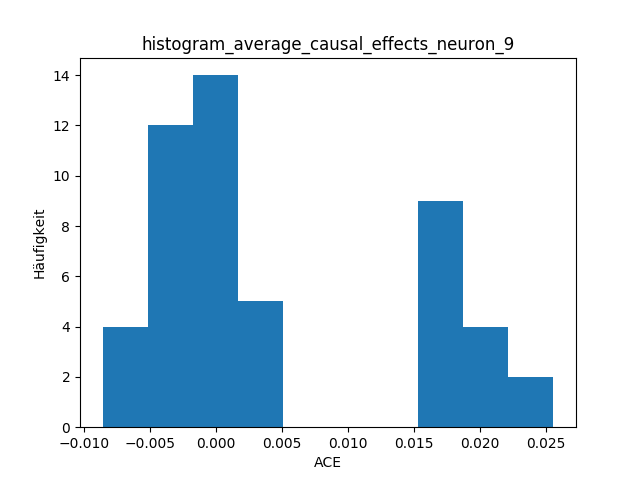
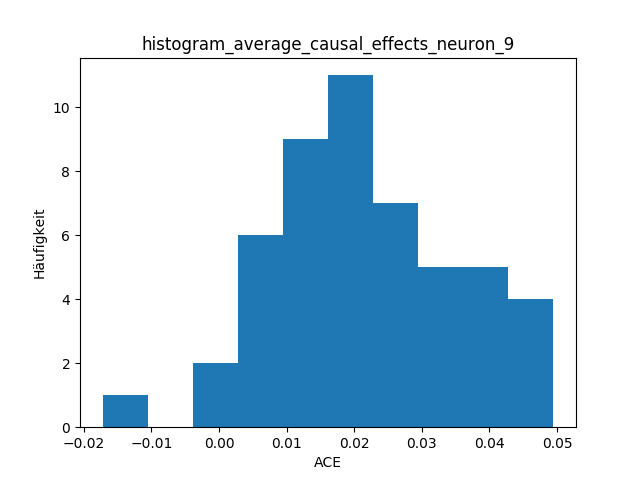
changed sigmoid

diff --git a/Project/causal.py b/Project/causal.py
@@ -7,10 +7,11 @@ import copy
 class causality(object):
     """docstring for causality."""
 
-    def __init__(self, neural_network,new_inputs):
+    def __init__(self, neural_network,new_inputs,input_samples_ACE):
         super(causality, self).__init__()
         self.neural_network = neural_network
         self.new_inputs=new_inputs
+        self.input_samples_ACE=input_samples_ACE
 
 
     def slicing_NN(self,input_sample):
@@ -19,7 +20,8 @@ class causality(object):
         #print(input_sample.shape)
         x_train_t =torch.from_numpy(input_sample).clone()
         for counter,layer in enumerate(self.neural_network.net):
-            if counter%2==0 and counter<len(self.neural_network.net):
+            if counter%2==0 and counter<len(self.neural_network.net):#if counter==6:#
+
                 #print(counter)
                 self.neural_network.net.eval()
                 new_nn=self.neural_network.net[counter:len(self.neural_network.net)]
@@ -32,13 +34,17 @@ class causality(object):
                 #shapes are wrong############################
                 #print(self.new_inputs.detach().numpy().shape)
 
-                input_samples_ACE=self.ACE(covariance,mean,new_nn)
                 print("nn generating input")
                 print(self.neural_network.net[0:counter])
                 print("sliced NN")
                 print(new_nn)
 
-                self.plotting_ACE(input_samples_ACE)
+                self.ACE(covariance,mean,new_nn)
+
+
+                self.evaluating_ACE()
+                #if counter==0:
+                #    self.plotting_ACE()
                 #print("self.new_inputs shape")
                 #print(self.new_inputs.detach().numpy().shape)
                 #print(mean)
@@ -46,7 +52,7 @@ class causality(object):
 
     def ACE(self,covariance,mean,neural_net):
         torch.set_default_dtype(torch.float64)
-        input_samples_ACE=[]
+        self.input_samples_ACE=[]
 
         for input_sample in self.new_inputs:
             input_sample=input_sample.detach().numpy()
@@ -63,15 +69,21 @@ class causality(object):
 
                 output=neural_net(input_tensor) # torch.from_numpy(mean_vector)
 
-                output = torch.nn.functional.sigmoid(output)
+                #output = torch.nn.functional.sigmoid(output)
                 #output = torch.nn.functional.softmax(output)
 
                 val = output.data.view(1).cpu().numpy()[0]
                 #print("first Loop") #first Loop 0
                 #print(indx)
-                first_grads = torch.autograd.grad(output, input_tensor, retain_graph=True, create_graph=True, only_inputs=True, allow_unused=False)
+                first_grads = torch.autograd.grad(output, input_tensor, retain_graph=True, create_graph=True, only_inputs=True, allow_unused=True)#allow_unused=False
+                #first_grads=np.array(first_grads, dtype=float)
+                #print(first_grads)
+                #first_grads[0].data=torch.nan_to_num(first_grads[0].data)
+                #print(first_grads)
+                #first_grads=torch.tensor(first_grads)
                 first_grad_shape = first_grads[0].data.size()
                 lower_order_grads = first_grads
+
                 for dim in range(len(mean)):
                     if dim==indx:
                         continue #only executing loop if not same neuron
@@ -83,8 +95,14 @@ class causality(object):
                     #print(input_tensor)
                     #print("second Loop") #second Loop 1
                     #print(dim)
-                    higher_order_grads = torch.autograd.grad(lower_order_grads,input_tensor, grad_outputs=grad_mask, retain_graph=True, create_graph=True, only_inputs=True, allow_unused=False)#allow_unused=False
+                    higher_order_grads = torch.autograd.grad(lower_order_grads,input_tensor, grad_outputs=grad_mask, retain_graph=True, create_graph=True, only_inputs=True, allow_unused=True)#allow_unused=False
+                    #higher_order_grads=np.array(higher_order_grads, dtype=float)
+                    #print(higher_order_grads)
+                    #X=torch.nan_to_num(higher_order_grads[0].data)
+                    #print(X)
+                    #higher_order_grads=torch.tensor(higher_order_grads)
                     higher_order_grads_array = np.array(higher_order_grads[0].data)
+
 
                     temp_cov = copy.deepcopy(covariance)
                     temp_cov[dim][indx] = 0.0
@@ -96,15 +114,32 @@ class causality(object):
 
             #average_causal_effects = np.array(average_causal_effects) - np.mean(np.array(average_causal_effects))
 
-            input_samples_ACE.append(np.array(average_causal_effects) - np.mean(np.array(average_causal_effects)))
+            self.input_samples_ACE.append(np.array(average_causal_effects) - np.mean(np.array(average_causal_effects)))
         #print(average_causal_effects)
 
-        return input_samples_ACE
 
-    def plotting_ACE(self,input_samples_ACE):
+    def evaluating_ACE(self):
+        ACEs=np.array(self.input_samples_ACE).T
+        medians=np.median(ACEs, axis=1)
+        variances=np.var(ACEs, axis=1)
+        #print("median")
+        #print(medians[0])
+        #first_row=ACEs[0,:]
+        #print("firstrow")
+        #print(first_row)
+        #print("median first row")
+        #print(np.median(first_row))
+        #for i,causal_effects in enumerate(np.array(self.input_samples_ACE).T):
+    #        if i!=0:
+    #            break
+    #        print("causal effects")
+    #        print(causal_effects)
+
+
+    def plotting_ACE(self):
         input_samples=self.new_inputs.detach().numpy()
         input_samples=input_samples.T
-        for i,causal_effects in enumerate(np.array(input_samples_ACE).T):
+        for i,causal_effects in enumerate(np.array(self.input_samples_ACE).T):
             #print(i)
             if i>14:
                 break
@@ -122,8 +157,8 @@ class causality(object):
             plt.title('histogram_average_causal_effects_neuron_'+str(i))
             plt.savefig('ACEplots/histogram_neuron'+str(i)+'.png')
             plt.close()
-        #print(len(input_samples_ACE))
-        #print(len(input_samples_ACE[0]))
+        #print(len(self.input_samples_ACE))
+        #print(len(self.input_samples_ACE[0]))
         print("DONE")
         #print(len(inputs))
         #print(len(inputs[0]))

diff --git a/Project/main.py b/Project/main.py
@@ -50,7 +50,7 @@ loss_training,test_loss_training=neural.training()
 #test neural net
 loss_test=neural.testing()
 
-causal_test=causal.causality(neural,0)
+causal_test=causal.causality(neural,0,0)
 
 causal_test.slicing_NN(get_data.inputs_training)#for us only training values as we are covering ACE in training not after training
 
